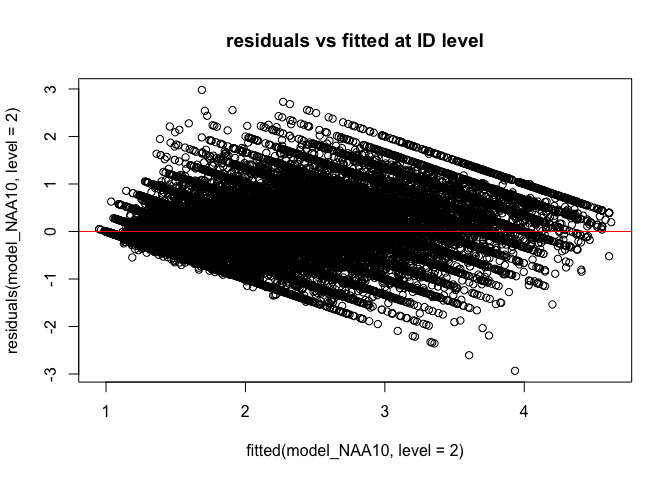
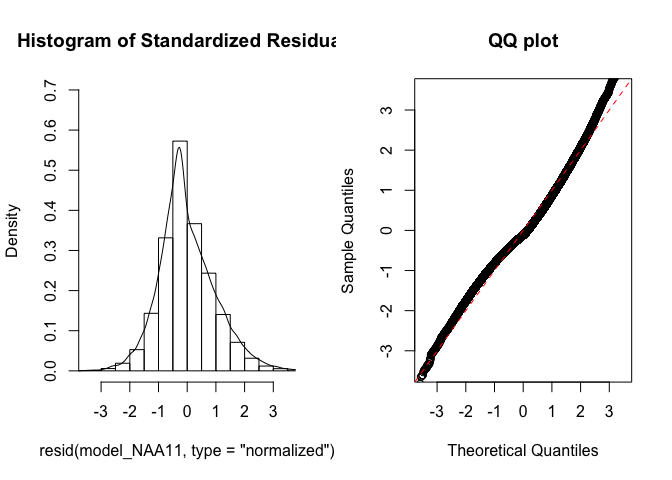
NAA

diff --git a/First analyses/First-analyses-three-level-centered3.md b/First analyses/First-analyses-three-level-centered3.md
@@ -47,6 +47,8 @@ library(rockchalk)
 library(effects)
 library(nlme)
 library(lattice)
+library(broom)
+library(purrr)
 ```
 
 # Country mean centering Stringency Index
@@ -526,18 +528,18 @@ summary(model_NAA9)
             Country ID %in% Country 
                  33           10343 
 
-*Autoregressive correlation structure*
-
-> Using the corCAR1 error structure assumes that assessments are taken
-> in varying
-intervals.
+*Autoregressive correlation
+structure*
 
 ``` r
+data_analyse1_fc <- data_analyse1_fc[with(data_analyse1_fc, order(Country, ID, Time)),]
+data_analyse1_fc$Time <- as.numeric(data_analyse1_fc$Time)
+
 model_NAA10 <- lme(fixed = NAA ~ StringencyIndex_dev + Str_dummy +  StringencyIndex_dev*Str_dummy,
                    random = list (Country = pdDiag(~StringencyIndex_dev), ID = pdDiag(~StringencyIndex_dev)),
                   data = data_analyse1_fc, 
                   na.action = na.omit,
-                  correlation = corAR1())
+                  correlation = corAR1(form = ~ Time | Country/ID))
 
 summary(model_NAA10)
 ```
@@ -545,52 +547,111 @@ summary(model_NAA10)
     Linear mixed-effects model fit by REML
      Data: data_analyse1_fc 
            AIC      BIC    logLik
-      120490.1 120597.6 -60233.04
+      120097.6 120205.1 -60036.79
     
     Random effects:
      Formula: ~StringencyIndex_dev | Country
      Structure: Diagonal
             (Intercept) StringencyIndex_dev
-    StdDev:   0.2181158         0.001846225
+    StdDev:   0.2173281          0.00193539
     
      Formula: ~StringencyIndex_dev | ID %in% Country
      Structure: Diagonal
             (Intercept) StringencyIndex_dev  Residual
-    StdDev:   0.7263502         0.007169171 0.5974446
+    StdDev:    0.732129          0.00682732 0.5942301
     
-    Correlation Structure: AR(1)
-     Formula: ~1 | Country/ID 
+    Correlation Structure: ARMA(1,0)
+     Formula: ~Time | Country/ID 
      Parameter estimate(s):
-          Phi 
-    0.2559555 
+         Phi1 
+    0.3379141 
     Fixed effects: NAA ~ StringencyIndex_dev + Str_dummy + StringencyIndex_dev *      Str_dummy 
                                         Value  Std.Error    DF   t-value p-value
-    (Intercept)                     2.4684605 0.04157966 47315  59.36702  0.0000
-    StringencyIndex_dev            -0.0042924 0.00158758 47315  -2.70372  0.0069
-    Str_dummy1                     -0.2082753 0.01761456 47315 -11.82405  0.0000
-    Str_dummy2                     -0.2180320 0.01340601 47315 -16.26375  0.0000
-    StringencyIndex_dev:Str_dummy1  0.0128011 0.00206685 47315   6.19352  0.0000
-    StringencyIndex_dev:Str_dummy2  0.0076487 0.00166246 47315   4.60085  0.0000
+    (Intercept)                     2.4684585 0.04148851 47315  59.49740  0.0000
+    StringencyIndex_dev            -0.0040375 0.00164051 47315  -2.46114  0.0139
+    Str_dummy1                     -0.2095552 0.01786840 47315 -11.72770  0.0000
+    Str_dummy2                     -0.2169358 0.01369294 47315 -15.84289  0.0000
+    StringencyIndex_dev:Str_dummy1  0.0131928 0.00213088 47315   6.19122  0.0000
+    StringencyIndex_dev:Str_dummy2  0.0074276 0.00171838 47315   4.32244  0.0000
      Correlation: 
                                    (Intr) StrnI_ Str_d1 Str_d2 SI_:S_1
-    StringencyIndex_dev             0.061                             
-    Str_dummy1                     -0.173 -0.301                      
-    Str_dummy2                     -0.250 -0.167  0.485               
-    StringencyIndex_dev:Str_dummy1 -0.051 -0.550 -0.358  0.236        
-    StringencyIndex_dev:Str_dummy2 -0.059 -0.902  0.220  0.226  0.621 
+    StringencyIndex_dev             0.070                             
+    Str_dummy1                     -0.177 -0.314                      
+    Str_dummy2                     -0.255 -0.193  0.492               
+    StringencyIndex_dev:Str_dummy1 -0.060 -0.562 -0.334  0.260        
+    StringencyIndex_dev:Str_dummy2 -0.068 -0.903  0.234  0.253  0.633 
     
     Standardized Within-Group Residuals:
            Min         Q1        Med         Q3        Max 
-    -4.9101053 -0.5613243 -0.1327395  0.5025579  4.9865155 
+    -4.9197489 -0.5649914 -0.1340106  0.4994438  5.0087667 
     
     Number of Observations: 57663
     Number of Groups: 
             Country ID %in% Country 
                  33           10343 
 
-> Model NAA10 has the best fit (lowest BIC). This model has random
-> slopes for Stringency at the Country level and ID level, assumes no
-> correlation between random slope and intercept, and assumes
+*AR without random slope for country, because model without random slope
+for country was
+better*
+
+``` r
+model_NAA11 <- lme(fixed = NAA ~ StringencyIndex_dev + Str_dummy +  StringencyIndex_dev*Str_dummy,
+                  random = list (Country = ~1, ID = pdDiag(~StringencyIndex_dev)), 
+                  data = data_analyse1_fc, 
+                  na.action = na.omit,
+                  correlation = corAR1(form = ~ Time | Country/ID))
+
+summary(model_NAA11)
+```
+
+    Linear mixed-effects model fit by REML
+     Data: data_analyse1_fc 
+           AIC      BIC    logLik
+      120105.6 120204.2 -60041.81
+    
+    Random effects:
+     Formula: ~1 | Country
+            (Intercept)
+    StdDev:   0.2171807
+    
+     Formula: ~StringencyIndex_dev | ID %in% Country
+     Structure: Diagonal
+            (Intercept) StringencyIndex_dev  Residual
+    StdDev:   0.7320867         0.006880119 0.5943817
+    
+    Correlation Structure: ARMA(1,0)
+     Formula: ~Time | Country/ID 
+     Parameter estimate(s):
+         Phi1 
+    0.3380812 
+    Fixed effects: NAA ~ StringencyIndex_dev + Str_dummy + StringencyIndex_dev *      Str_dummy 
+                                        Value  Std.Error    DF   t-value p-value
+    (Intercept)                     2.4633916 0.04140610 47315  59.49344  0.0000
+    StringencyIndex_dev            -0.0043934 0.00149078 47315  -2.94707  0.0032
+    Str_dummy1                     -0.1922733 0.01633144 47315 -11.77320  0.0000
+    Str_dummy2                     -0.2130145 0.01335324 47315 -15.95227  0.0000
+    StringencyIndex_dev:Str_dummy1  0.0117440 0.00194675 47315   6.03258  0.0000
+    StringencyIndex_dev:Str_dummy2  0.0073111 0.00157454 47315   4.64334  0.0000
+     Correlation: 
+                                   (Intr) StrnI_ Str_d1 Str_d2 SI_:S_1
+    StringencyIndex_dev             0.076                             
+    Str_dummy1                     -0.181 -0.304                      
+    Str_dummy2                     -0.252 -0.228  0.546               
+    StringencyIndex_dev:Str_dummy1 -0.073 -0.645 -0.261  0.278        
+    StringencyIndex_dev:Str_dummy2 -0.074 -0.957  0.288  0.265  0.618 
+    
+    Standardized Within-Group Residuals:
+           Min         Q1        Med         Q3        Max 
+    -4.9324682 -0.5644975 -0.1352606  0.4994153  4.9877233 
+    
+    Number of Observations: 57663
+    Number of Groups: 
+            Country ID %in% Country 
+                 33           10343 
+
+> Model NAA11 has the best fit (lowest BIC), slightly better than NAA10.
+> This model has only a random slope fo Stringency at the ID level,
+> assumes no correlation between random slope and intercept, and assumes
 > autoregressive correlation structure at the measurement level.
 
 *QQ plot of residuals*
@@ -598,92 +659,91 @@ summary(model_NAA10)
 ``` r
 par(mfrow = c(1,2))
 lims <- c(-3.5,3.5)
-hist(resid(model_NAA10, type = "normalized"),
+hist(resid(model_NAA11, type = "normalized"),
 freq = FALSE, xlim = lims, ylim =  c(0,.7),main = "Histogram of Standardized Residuals")
-lines(density(scale(resid(model_NAA10))))
-qqnorm(resid(model_NAA10, type = "normalized"),
+lines(density(scale(resid(model_NAA11))))
+qqnorm(resid(model_NAA11, type = "normalized"),
 xlim = lims, ylim = lims,main = "QQ plot")
 abline(0,1, col = "red", lty = 2)
 ```
 
-![](First-analyses-three-level-centered3_files/figure-gfm/unnamed-chunk-14-1.png)<!-- -->
+![](First-analyses-three-level-centered3_files/figure-gfm/unnamed-chunk-15-1.png)<!-- -->
 
 *Residuals vs fitted*
 
 ``` r
-plot(fitted(model_NAA10, level=2), residuals(model_NAA10, level=2), 
+plot(fitted(model_NAA11, level=2), residuals(model_NAA11, level=2), 
      main="residuals vs fitted at ID level")
 abline(a=0, b=0,col="red")
-```
-
-![](First-analyses-three-level-centered3_files/figure-gfm/unnamed-chunk-15-1.png)<!-- -->
-
-``` r
-plot(fitted(model_NAA10, level=1), residuals(model_NAA10, level=1), 
-    main="residuals vs fitted at Country level")
-abline(a=0, b=0,col="red")
-```
-
-![](First-analyses-three-level-centered3_files/figure-gfm/unnamed-chunk-15-2.png)<!-- -->
-
-*Plot random intercepts and
-slopes*
-
-``` r
-plot(ranef(model_NAA10, level = 1))
 ```
 
 ![](First-analyses-three-level-centered3_files/figure-gfm/unnamed-chunk-16-1.png)<!-- -->
 
 ``` r
-plot(ranef(model_NAA10, level = 2))
+plot(fitted(model_NAA11, level=1), residuals(model_NAA11, level=1), 
+    main="residuals vs fitted at Country level")
+abline(a=0, b=0,col="red")
 ```
 
 ![](First-analyses-three-level-centered3_files/figure-gfm/unnamed-chunk-16-2.png)<!-- -->
 
+*Plot random intercepts and
+slopes*
+
+``` r
+plot(ranef(model_NAA11, level = 1))
+```
+
+![](First-analyses-three-level-centered3_files/figure-gfm/unnamed-chunk-17-1.png)<!-- -->
+
+``` r
+plot(ranef(model_NAA11, level = 2))
+```
+
+![](First-analyses-three-level-centered3_files/figure-gfm/unnamed-chunk-17-2.png)<!-- -->
+
 *Confidence intervals*
 
 ``` r
-intervals(model_NAA10)
+intervals(model_NAA11)
 ```
 
     Approximate 95% confidence intervals
     
      Fixed effects:
                                           lower         est.        upper
-    (Intercept)                     2.386963810  2.468460527  2.549957244
-    StringencyIndex_dev            -0.007404034 -0.004292363 -0.001180691
-    Str_dummy1                     -0.242800135 -0.208275349 -0.173750564
-    Str_dummy2                     -0.244307959 -0.218031998 -0.191756036
-    StringencyIndex_dev:Str_dummy1  0.008750016  0.012801065  0.016852113
-    StringencyIndex_dev:Str_dummy2  0.004390287  0.007648739  0.010907190
+    (Intercept)                     2.382235058  2.463391606  2.544548154
+    StringencyIndex_dev            -0.007315380 -0.004393431 -0.001471483
+    Str_dummy1                     -0.224283183 -0.192273321 -0.160263459
+    Str_dummy2                     -0.239187020 -0.213014479 -0.186841938
+    StringencyIndex_dev:Str_dummy1  0.007928289  0.011743953  0.015559618
+    StringencyIndex_dev:Str_dummy2  0.004224995  0.007311108  0.010397222
     attr(,"label")
     [1] "Fixed effects:"
     
      Random Effects:
       Level: Country 
-                                  lower        est.       upper
-    sd((Intercept))         0.160616325 0.218115843 0.296199786
-    sd(StringencyIndex_dev) 0.000864417 0.001846225 0.003943174
+                        lower      est.     upper
+    sd((Intercept)) 0.1644187 0.2171807 0.2868741
       Level: ID 
-                                  lower        est.      upper
-    sd((Intercept))         0.712419031 0.726350183 0.74055376
-    sd(StringencyIndex_dev) 0.005987418 0.007169171 0.00858417
+                                  lower        est.       upper
+    sd((Intercept))         0.720202607 0.732086678 0.744166848
+    sd(StringencyIndex_dev) 0.005742046 0.006880119 0.008243757
     
      Correlation structure:
-            lower      est.     upper
-    Phi 0.2417283 0.2559555 0.2700728
+             lower      est.     upper
+    Phi1 0.3241624 0.3380812 0.3518536
     attr(,"label")
     [1] "Correlation structure:"
     
      Within-group standard error:
         lower      est.     upper 
-    0.5918638 0.5974446 0.6030781 
+    0.5892770 0.5943817 0.5995306 
 
 *Plot of predicted values*
 
 ``` r
-ef_NAA <- effect("StringencyIndex_dev:Str_dummy", model_NAA10)
+ef_NAA <- effect("StringencyIndex_dev:Str_dummy", model_NAA11)
 
 plot_NAA <- ggplot(as.data.frame(ef_NAA), 
        aes(StringencyIndex_dev, fit, color=Str_dummy)) + geom_line() + 
@@ -694,4 +754,65 @@ plot_NAA <- ggplot(as.data.frame(ef_NAA),
 plot_NAA
 ```
 
-![](First-analyses-three-level-centered3_files/figure-gfm/unnamed-chunk-19-1.png)<!-- -->
+![](First-analyses-three-level-centered3_files/figure-gfm/unnamed-chunk-20-1.png)<!-- -->
+
+``` r
+coef_NAA = tidy(model_NAA11, 
+               effects = "fixed")
+```
+
+*Effect sizes* **Within person SD and average within person SD**
+
+``` r
+ISDs <- data_analyse1_fc %>% 
+  group_by(ID) %>%
+  summarize_at(c("StringencyIndex_dev", "NAA", "NAD", "PAA", "PAD"), sd, na.rm=TRUE) %>%
+  ungroup()
+
+ISDs_av <- ISDs %>%
+  summarize_at(c("StringencyIndex_dev", "NAA", "NAD", "PAA", "PAD"), mean, na.rm=TRUE) %>%
+  stack() %>%
+  rename(sd=values) 
+```
+
+> Effect size = (regression coefficient \* average ISD of X) / average
+> ISD of Y)
+
+> For the intercept and the dummy variables (+ interaction) I only
+> standardized Y, so the effect size = (regression coefficient / average
+> ISD of Y)
+
+``` r
+coef_NAA <- coef_NAA %>%
+ left_join(., ISDs_av, by=c("term"="ind"))
+
+coef_NAA <- coef_NAA %>%
+  mutate(sd = ifelse(is.na(sd), 1, sd))
+
+coef_NAA <- coef_NAA %>%
+ mutate(e_size = (estimate * sd)/0.5046733)
+
+coef_NAA <- coef_NAA %>%
+  rename(isd = sd)
+```
+
+``` r
+coef_NAA
+```
+
+    ## # A tibble: 6 x 7
+    ##   term                           estimate std.error statistic  p.value   isd  e_size
+    ##   <chr>                             <dbl>     <dbl>     <dbl>    <dbl> <dbl>   <dbl>
+    ## 1 (Intercept)                     2.46      0.0414      59.5  0.        1     4.88  
+    ## 2 StringencyIndex_dev            -0.00439   0.00149     -2.95 3.21e- 3  6.12 -0.0533
+    ## 3 Str_dummy1                     -0.192     0.0163     -11.8  5.95e-32  1    -0.381 
+    ## 4 Str_dummy2                     -0.213     0.0134     -16.0  3.87e-57  1    -0.422 
+    ## 5 StringencyIndex_dev:Str_dummy1  0.0117    0.00195      6.03 1.63e- 9  1     0.0233
+    ## 6 StringencyIndex_dev:Str_dummy2  0.00731   0.00157      4.64 3.44e- 6  1     0.0145
+
+> Effect size interpretation: small = 0.1, medium = 0.3, large = 0.5
+
+``` r
+save(ISDs_av, file="ISDs_av.Rdata")
+save(data_analyse1_fc, file = "data_analyse1_fc.Rdata")
+```
